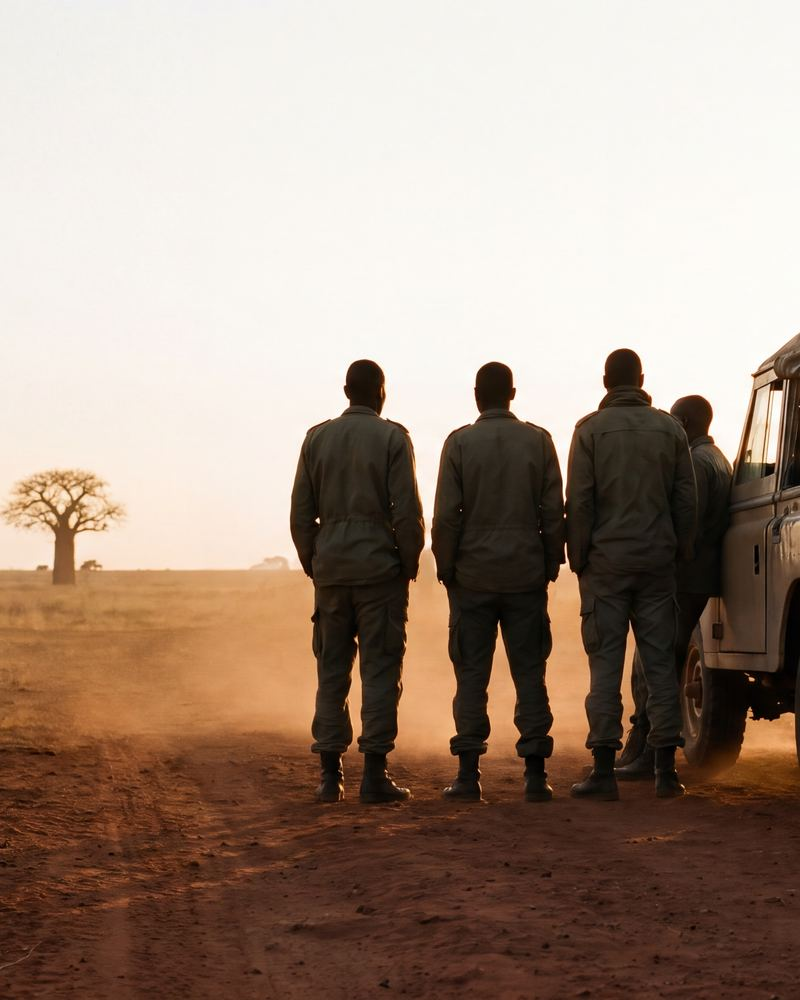
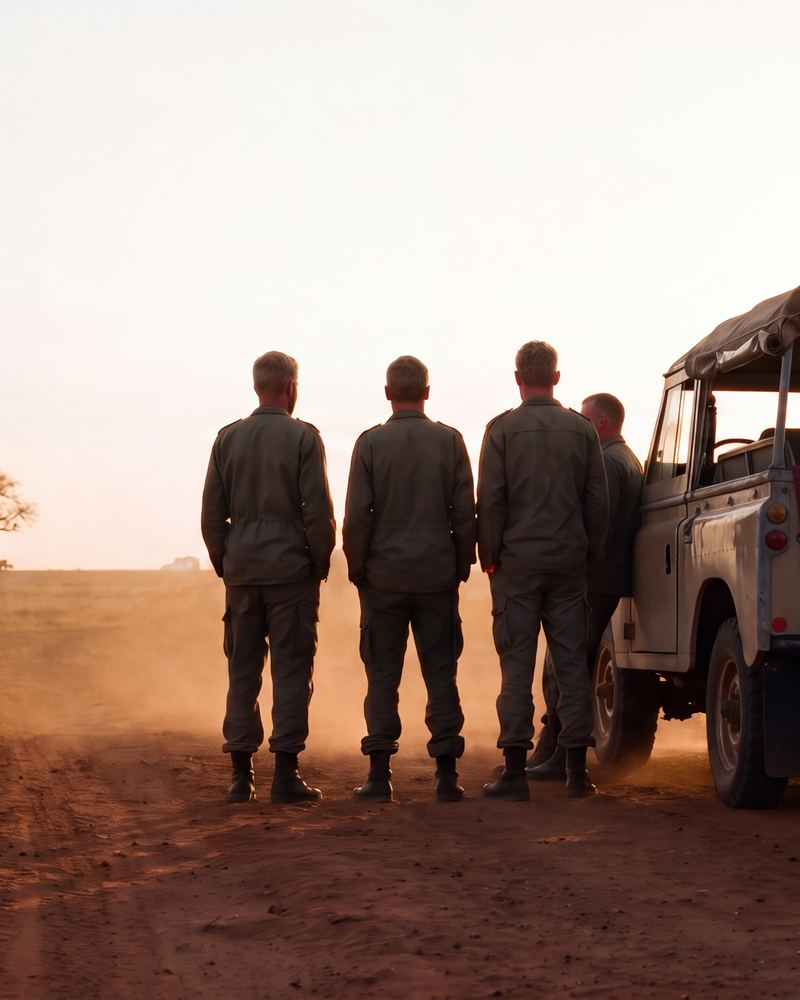
Beelden van Gemini: HOME-01 met vier witte mannen, en twaalf andere beelden
HOME-01 opnieuw (de oprichters zijn wit), HOME-02 t/m 04, OVER-01, WERK-01,
WERELD-02 en DIEN-02 t/m 07, met JPEG's van 800 en 1600 px, mobiele
uitsnedes voor de hero's en og-beelden. LEAD-01 en LEAD-04 alleen als
origineel; de portretten komen online als alle vier klaar zijn. DIEN-01,
LEAD-02 en LEAD-03 volgen als er weer Gemini-tegoed is.

Gecontroleerd: geen merknamen, tekst of herkenbare gezichten; home, diensten,
een divisie, over ons, werken bij en wereldwijd op 1440 en 375 px zonder
horizontale scroll of 404's; hero's binnen het budget (max. 217 KB desktop,
120 KB mobiel).

diff --git a/website/beeldtaal.md b/website/beeldtaal.md
@@ -43,6 +43,9 @@ Zet de verhouding ook in de prompt, bijvoorbeeld: *Aspect ratio 16:9.*
 
 - Maak eerst `HOME-01`. Gebruik het goedgekeurde beeld daarna als referentiebeeld bij de andere prompts, met de toevoeging: *Match the color grading, light and grain of the reference image.*
 - Doe hetzelfde bij de portretten: keur er één goed en gebruik die als referentie voor de andere drie.
+- De vier oprichters zijn wit. Gemini maakt silhouetten in tegenlicht vaak donker; noem het daarom altijd in de prompt (*white Rhodesian soldiers*, of *The man is white* bij de portretten). Werkt het niet, bewerk dan een goedgekeurd beeld in plaats van een nieuw te maken.
+- Zet achter elke prompt: *Everything is unbadged: no lettering, no number plates, no brand names, no insignia.* Zonder die zin zet Gemini merknamen en kentekens op voertuigen.
+- Bij hero's de tekst links, het onderwerp rechts: *Composition for a website header: main subject in the right half of the frame, the left half calm and darker for text overlay.*
 - Leg goedgekeurde beelden vast in `website/beelden/originelen/`, met het ID als bestandsnaam (zie *Beeldeisen*).
 
 ## Beeldeisen
@@ -112,7 +115,7 @@ Zet steeds eerst het stijlblok voor de prompt.
 ### Home
 
 **HOME-01 — Hero.** *Aspect ratio 16:9.*
-Two weathered 1970s Land Rovers parked on a red dirt road in African savanna at golden hour, a large baobab tree on the horizon, dust hanging in the warm light. Four men in plain olive field clothing stand beside the vehicles seen from behind, looking toward the horizon. The scene is calm and patient, as if they have been waiting a long time.
+Two weathered 1970s Land Rovers parked on a red dirt road in African savanna at golden hour, a large baobab tree on the horizon, dust hanging in the warm light. Four white Rhodesian soldiers in plain olive field clothing stand beside the vehicles seen from behind, looking toward the horizon; one of them is noticeably taller and broader than the others. The scene is calm and patient, as if they have been waiting a long time.
 
 **HOME-02 — Security.** *Aspect ratio 16:9.*
 A lone figure in dark field clothing seen from behind on a rooftop at dusk, looking out over a quiet city with a pair of binoculars. Warm lights coming on in the distance, the figure in silhouette.
@@ -136,7 +139,7 @@ Four pairs of worn military boots standing side by side on red earth, shot low t
 Gebruik voor alle vier hetzelfde decor en licht, en alleen de details uit de canon. Dit zijn voorlopig silhouetten; echte gezichten pas na een nieuw besluit (zie `docs/beslissingen.md`). Maak geen AI-portretten op basis van foto's van echte teamleden.
 
 **LEAD-basis** (zet dit voor elk portret):
-Formal executive portrait in a dark boardroom with a large window behind, the man silhouetted against warm evening light, face in deep shadow and not recognizable, wearing a dark suit. *Aspect ratio 4:5.*
+Formal executive portrait in a dark boardroom with a large window behind, the man silhouetted against warm evening light, face in deep shadow and not recognizable, wearing a dark suit. The man is white. Exactly one person in the image, nobody else in the room. *Aspect ratio 4:5.*
 
 - **LEAD-01 — Frederik:** A very tall, broad man standing upright, almost filling the frame, completely still.
 - **LEAD-02 — Hayo:** A man seated at the boardroom table, a folded map and an open notebook in front of him, a pen in his hand.

diff --git a/docs/openstaand.md b/docs/openstaand.md
@@ -27,13 +27,16 @@ Wat nog moet gebeuren voordat en nadat de site live gaat. Vink af wat klaar is e
 - [x] Echte informatie voor *Meedoen met het airsoftteam* op Werken bij.
 - [ ] Privacyverklaring laten controleren, vooral de bewaartermijn (nu: uiterlijk een jaar) en de grondslag.
 - [ ] Besluiten of het volledige verhaal als pagina *Ons verhaal* op de site komt. Het is te groot voor het paginabudget en bevat nog niet-goedgekeurde personages.
-- [ ] Beelden maken en plaatsen: de site werkt zonder, maar hero's en kaarten zijn nu nog leeg. Zonder beelden is er ook geen `og:image`.
 - [ ] Op de server: documentroot naar `public/` zetten, `includes/config.php` aanmaken (zie `config.example.php`) en de GitHub Secrets voor de deploy invullen. Tot die tijd mislukt de deploy-workflow.
 - [ ] Eventueel een professionele vectorversie (SVG) van het logo laten maken. Tot die tijd gebruiken we de originele PNG.
 - [x] De lijniconen per divisie ontwerpen.
 - [x] De lettertypes Oswald en Source Sans 3 downloaden, beperken tot de Latijnse tekenset en de OFL-licentiebestanden meenemen.
-- [ ] `HOME-01` goedkeuren als referentie voor de stijl. Gemaakt op 10 november 2026 via de API en staat op de homepage.
-- [ ] De overige beelden uit [beeldtaal.md](../website/beeldtaal.md).
+- [x] `HOME-01` en twaalf andere beelden uit [beeldtaal.md](../website/beeldtaal.md) gemaakt en geplaatst (10 november 2026).
+- [ ] Gemini-tegoed aanvullen in AI Studio; het prepaid-tegoed was op.
+- [ ] `DIEN-01` opnieuw maken: in de eerste versie waren gezichten zichtbaar.
+- [ ] `LEAD-02` en `LEAD-03` opnieuw maken, met `LEAD-01` als referentie. Bij `LEAD-02` was het gezicht te goed zichtbaar, `LEAD-03` had een ander decor. De portretten gaan pas op de site als alle vier klaar zijn.
+- [ ] Beelden voor de dertien inzichten (NEWS-basis), zodat ook persberichten een `og:image` hebben.
+- [ ] `OVER-02` wordt nergens gebruikt: een plek geven of uit de beeldtaal halen.
 - [x] Het colofon, de privacyverklaring en de disclaimer schrijven. Deze teksten zijn echt, geen satire.
 - [x] De GitHub Actions-workflow voor de deploy.
 

diff --git a/docs/beslissingen.md b/docs/beslissingen.md
@@ -38,6 +38,7 @@ Wat is besloten, wanneer en waarom. Nieuwe beslissingen komen bovenaan in de tab
 | 2026-11-10 | Beelden worden gemaakt met Gemini via Google AI Studio of de API. | Meer controle over formaat en resolutie dan in de app. |
 | 2026-11-10 | Beelden maken we met `gemini-3-pro-image` via de API, in 4K. Originelen gaan als JPEG van 2400 px breed (kwaliteit 92) in de repo, niet het volle 4K-bestand. | Gemini levert JPEG van zo’n 8 MB per beeld; 2400 px is het minimum voor een hero en houdt de repo klein. |
 | 2026-11-10 | Een beeld mag horizontaal gespiegeld worden als er geen tekst of asymmetrisch herkenbaar detail in staat. Dat staat dan in het manifest. | De tekst in de hero staat links; het onderwerp hoort rechts. |
+| 2026-11-10 | De vier oprichters staan in beeld als witte mannen; in de prompts heten ze *white Rhodesian soldiers*. | Zo zien de teamleden eruit, en het past bij het verhaal (Rhodesische militairen in 1979). |
 | 2026-11-10 | Alleen een productieomgeving. Deploy via GitHub Actions met SFTP, of FTPS als dat niet kan. | Eenvoudig. Lokaal testen met `php -S` vervangt een testomgeving. |
 | 2026-11-10 | Teksten worden aangeleverd en door Claude omgezet naar pagina's en persberichten. | Het team schrijft, de opmaak blijft consequent. |
 | 2026-11-10 | Snelheid weegt zwaar, met harde budgetten per pagina. Mobile-first en responsive. | De site moet op mobiel direct laden. |
